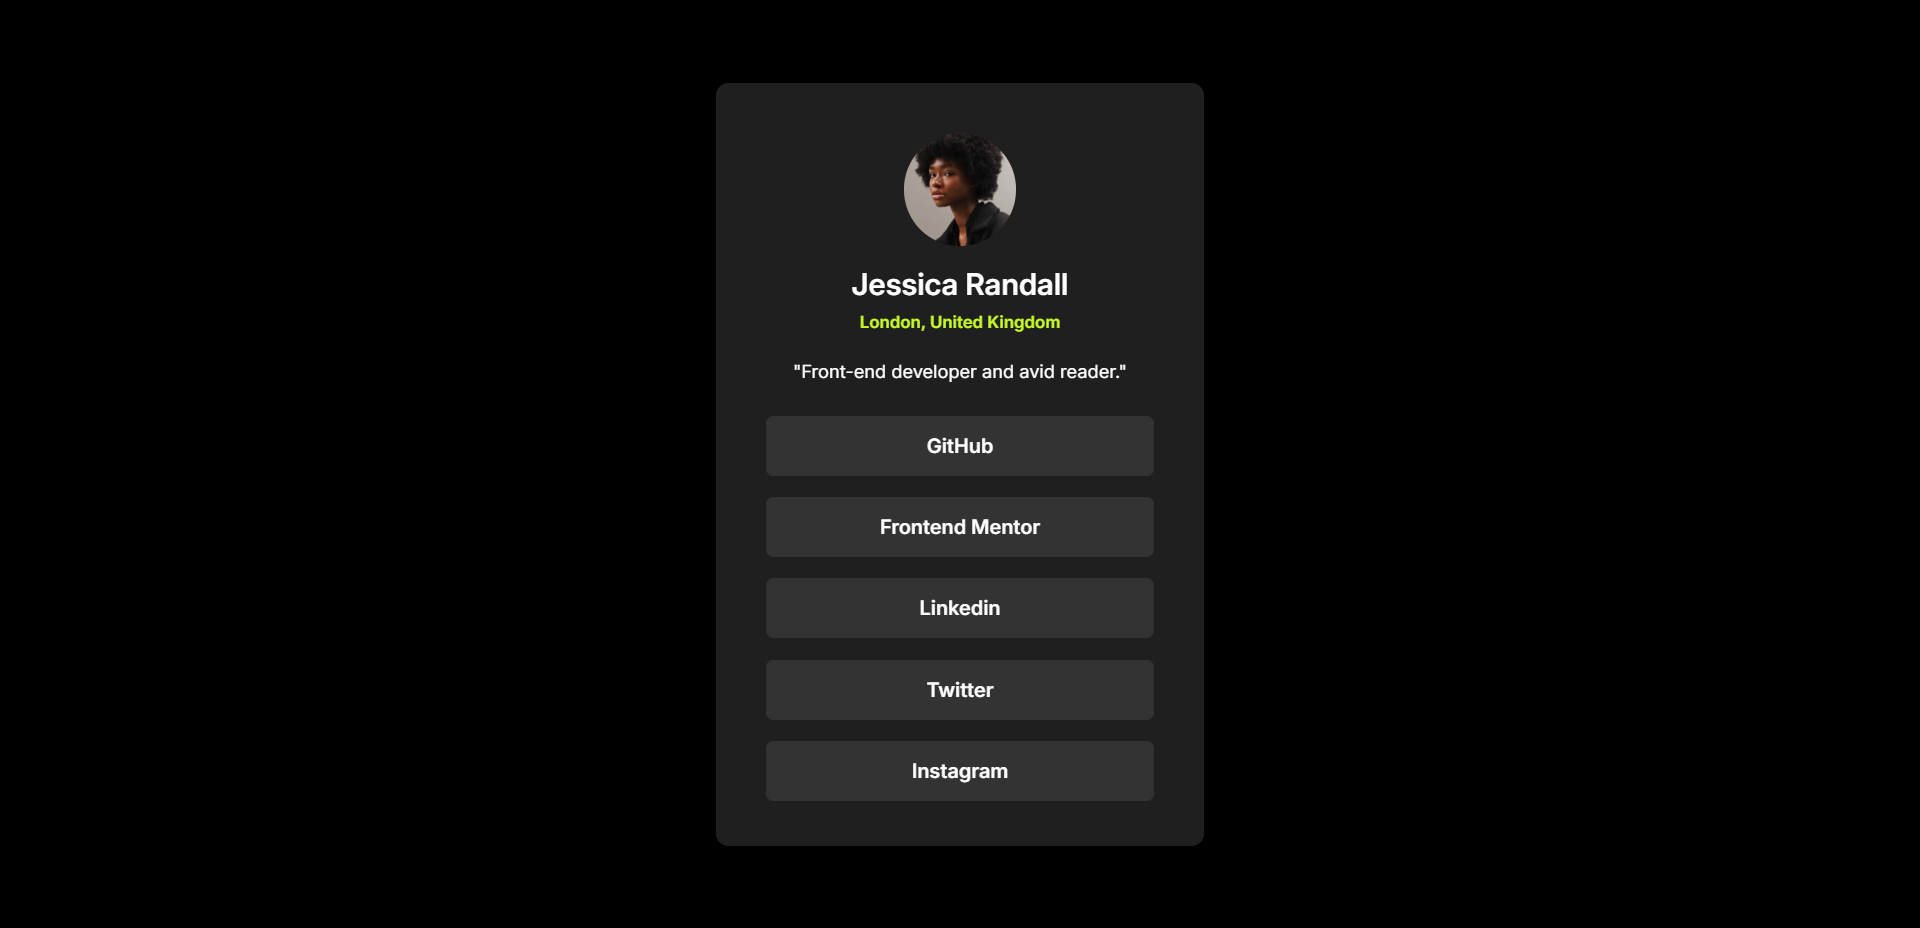
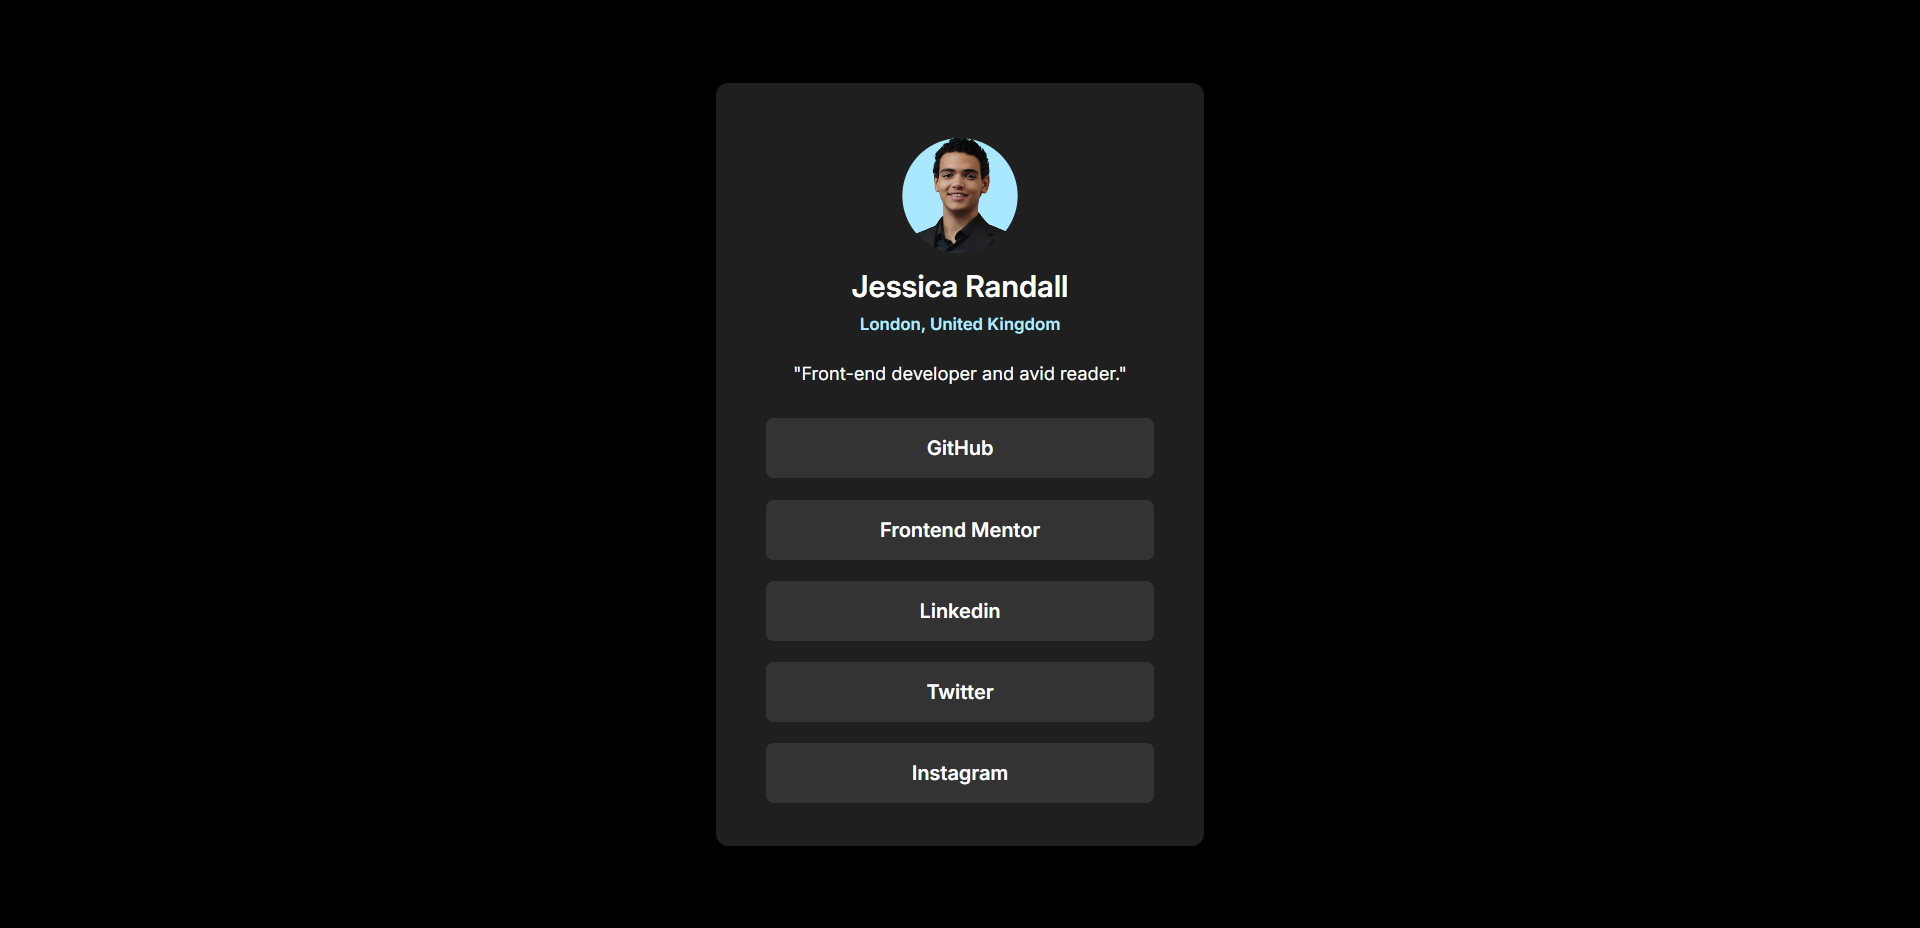
Update photos and names

diff --git a/index.html b/index.html
@@ -29,8 +29,8 @@
       <!-- profile-info -->
       <sction class="profile-info">
         <img src="assets/images/profile-pic.jpg" alt="profile-icon" />
-        <h1 class="inter-medium">Jessica Randall</h1>
-        <h5 class="inter-medium">London, United Kingdom</h5>
+        <h1 class="inter-medium">Fady Mahrous</h1>
+        <h5 class="inter-medium">Giza, Egypt</h5>
         <p class="inter-regular">"Front-end developer and avid reader."</p>
       </sction>
       <!-- /profile-info -->
